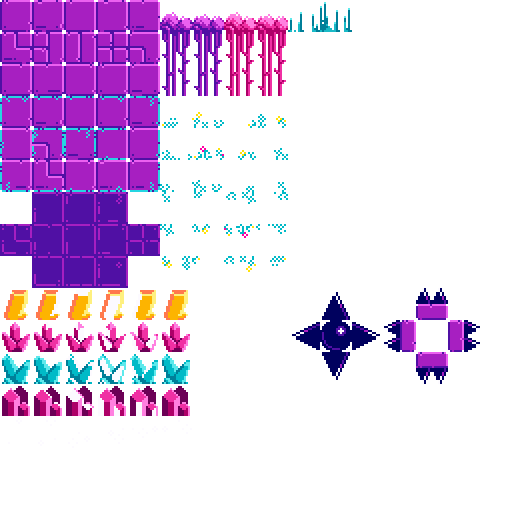
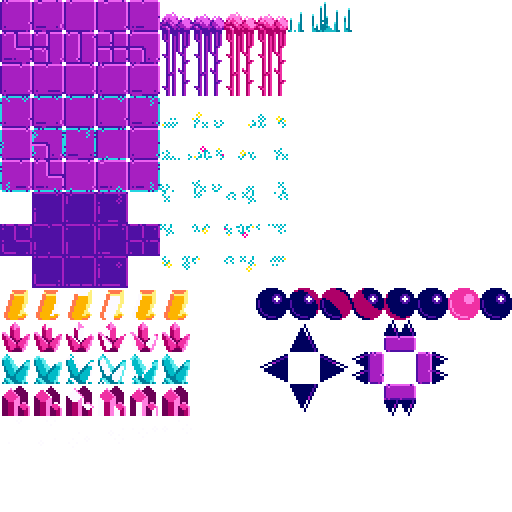
add bomb reflection animation

diff --git a/src/layers/createMines.js b/src/layers/createMines.js
@@ -1,10 +1,12 @@
 // @flow strict
 
-import {Sprite} from 'pixi.js';
+import {randomInt} from '@utils/math';
 import Body from '@core/physics/Body';
 import Group from '@core/physics/Group';
 import Explosive from '@traits/Explosive';
+import AnimatedSprite from '@core/AnimatedSprite';
 
+import type {KeyframesType} from '@core/Animation';
 import type {LayerProps} from '@layers';
 
 function createMines({global, spriteset}: LayerProps) {
@@ -18,15 +20,27 @@ function createMines({global, spriteset}: LayerProps) {
 
   layer.sprites.forEach(sprite => {
     const {id, position} = sprite;
+
     const mine = new Body(
-      new Sprite(spriteset.spritesheet.getById(id)),
+      new AnimatedSprite(spriteset.spritesheet.getById(id)),
       [position[0] * spriteset.tilesize, position[1] * spriteset.tilesize],
       spriteset.tilesize
     );
 
-    mine.addTrait(new Explosive(global));
+    const keyframes: KeyframesType = {
+      reflection: {
+        frame: randomInt(-10, 0),
+        delay: 15,
+        firstId: id,
+        lastId: id + 7,
+      },
+    };
+
+    mine.sprite.animation.keyframes = keyframes;
+    mine.sprite.animation.play('reflection');
 
     if (mines) {
+      mine.addTrait(new Explosive(global));
       mines.add(mine);
     }
   });

diff --git a/src/layers/createGems.js b/src/layers/createGems.js
@@ -30,16 +30,16 @@ function createGems({global, spriteset}: LayerProps) {
     );
 
     const keyframes: KeyframesType = {
-      shine: {
-        frame: 0,
-        delay: randomInt(5, 10),
+      reflection: {
+        frame: randomInt(-5, 0),
+        delay: 15,
         firstId: id,
         lastId: id + 5,
       },
     };
 
     gem.sprite.animation.keyframes = keyframes;
-    gem.sprite.animation.play('shine');
+    gem.sprite.animation.play('reflection');
 
     if (gems) {
       gem.addTrait(new Collectible(global));
